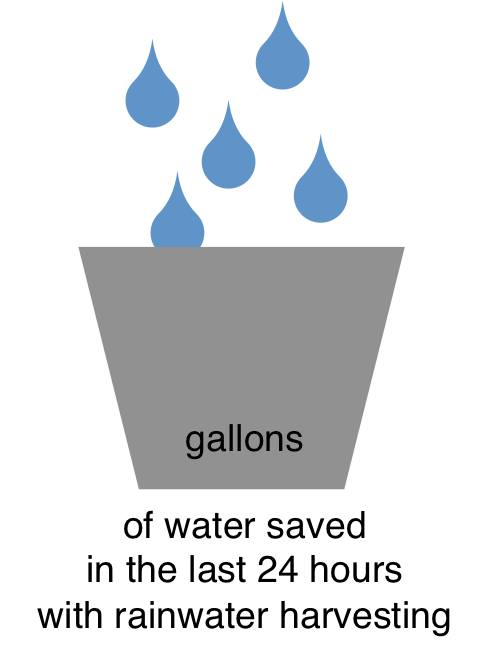
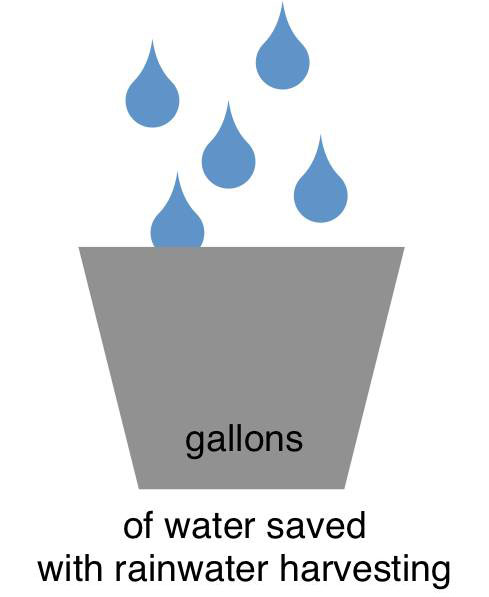
Use water meter instead of trendline.

diff --git a/app.js b/app.js
@@ -116,46 +116,19 @@ app.post('/upload', multipartMiddleware, function(req, res) {
 });
 
 app.get('/water', function(req, res) {
-	res.render('index', {
-		points: JSON.stringify([
-		{
-			dgm: 'x-pml:/diagrams/ud/41cooper/greywater.dgm',
-			variables: ['ART9 Result 1']
-		}
-		]),
-		min: 'auto',
-		elapsed: 2 * 60 * 60 * 1000,
-		setname: 'Rainwater Collection',
-		description: 'Water saved since Fall 2009.',
-		unit: 'gl',
-		message: 'This page is under construction.'
-	});
-});
-
-app.get('/watersaved', function(req, res) {
 	var dgm = 'x-pml:/diagrams/ud/41cooper/greywater.dgm';
 	var variable = 'ART9 Result 1';
 	var variables = [variable];
-	var elapsed = 24 * 60 * 60 * 1000;
 
-	async.parallel({
-		latest: function(callback) {
-			api.getLatest(dgm, callback);
-		},
-		amount: function(callback) {
-			api.getRecent(dgm, elapsed, variables, api.diff, callback);
-		}
-	}, function(err, results) {
+	api.getLatest(dgm, function(err, results) {
 		if (err) {
 			res.render(500, err);
 		} else {
 			res.render('save', {
 				dgm: dgm,
-				variables: variables,
-				elapsed: elapsed,
 				setname: 'Water Saved',
-				amount: Math.round(results.amount[variable]),
-				latest: results.latest[variable]
+				variables: variables,
+				latest: results[variable]
 			});
 		}
 	});
@@ -372,7 +345,7 @@ io.sockets.on('connection', function(socket) {
 					console.warn(err);
 				}
 			}
-		}
+		};
 		  
 		if (query.elapsed) {
 			api.getRecent(query.dgm, query.elapsed, 

diff --git a/public/js/save.js b/public/js/save.js
@@ -1,7 +1,9 @@
 'use strict';
 
-var dashMeter = function(host, dgm, variables, latest, amount) {
+var dashMeter = function(host, dgm, variables, latest) {
 	var socket = io.connect(host);
+	
+	var self = this;
 
 	socket.emit('update', dgm);
 	
@@ -11,16 +13,17 @@ var dashMeter = function(host, dgm, variables, latest, amount) {
 			if (dataset[d].name == variables) {
 				
 				var next = dataset[d].data[dataset[d].data.length - 1].y;
-	
+				
 				if (next && next > 0) {
-					var diff = next - latest;
-	
-					amount += diff;
-					document.getElementById('amount').innerHTML = amount.toFixed(0);
-	
-					latest = next;
+					self.update(next);
 				}
 			}
 		}
 	});
+	
+	this.update(latest);
+};
+
+dashMeter.prototype.update = function(value) {
+	document.getElementById('amount').innerHTML = Math.floor(value).toLocaleString();	
 };

diff --git a/public/css/save.css b/public/css/save.css
@@ -25,7 +25,7 @@ html, body {
 
 h1#amount {
 	font-family: 'Slabo 13px', serif;
-	font-size: 36pt;
+	font-size: 42pt;
 	font-weight: 400;
 
 	padding: 0px;
@@ -33,18 +33,27 @@ h1#amount {
 
 	position: relative;
 	top: 50%;
-	transform: translateY(-60%);
 }
 
 @media (max-width: 200px) {
 	h1#amount {
-		font-size: 24pt;
+		font-size: 16pt;
 		transform: translateY(-70%);
+	}
+}
+@media (max-width: 600px) {
+	h1#amount {
+		font-size: 24pt;
 	}
 }
 @media (max-height: 200px) {
 	h1#amount {
-		font-size: 24pt;
+		font-size: 16pt;
 		transform: translateY(-70%);
+	}
+}
+@media (max-height: 600px) {
+	h1#amount {
+		font-size: 24pt;
 	}
 }
